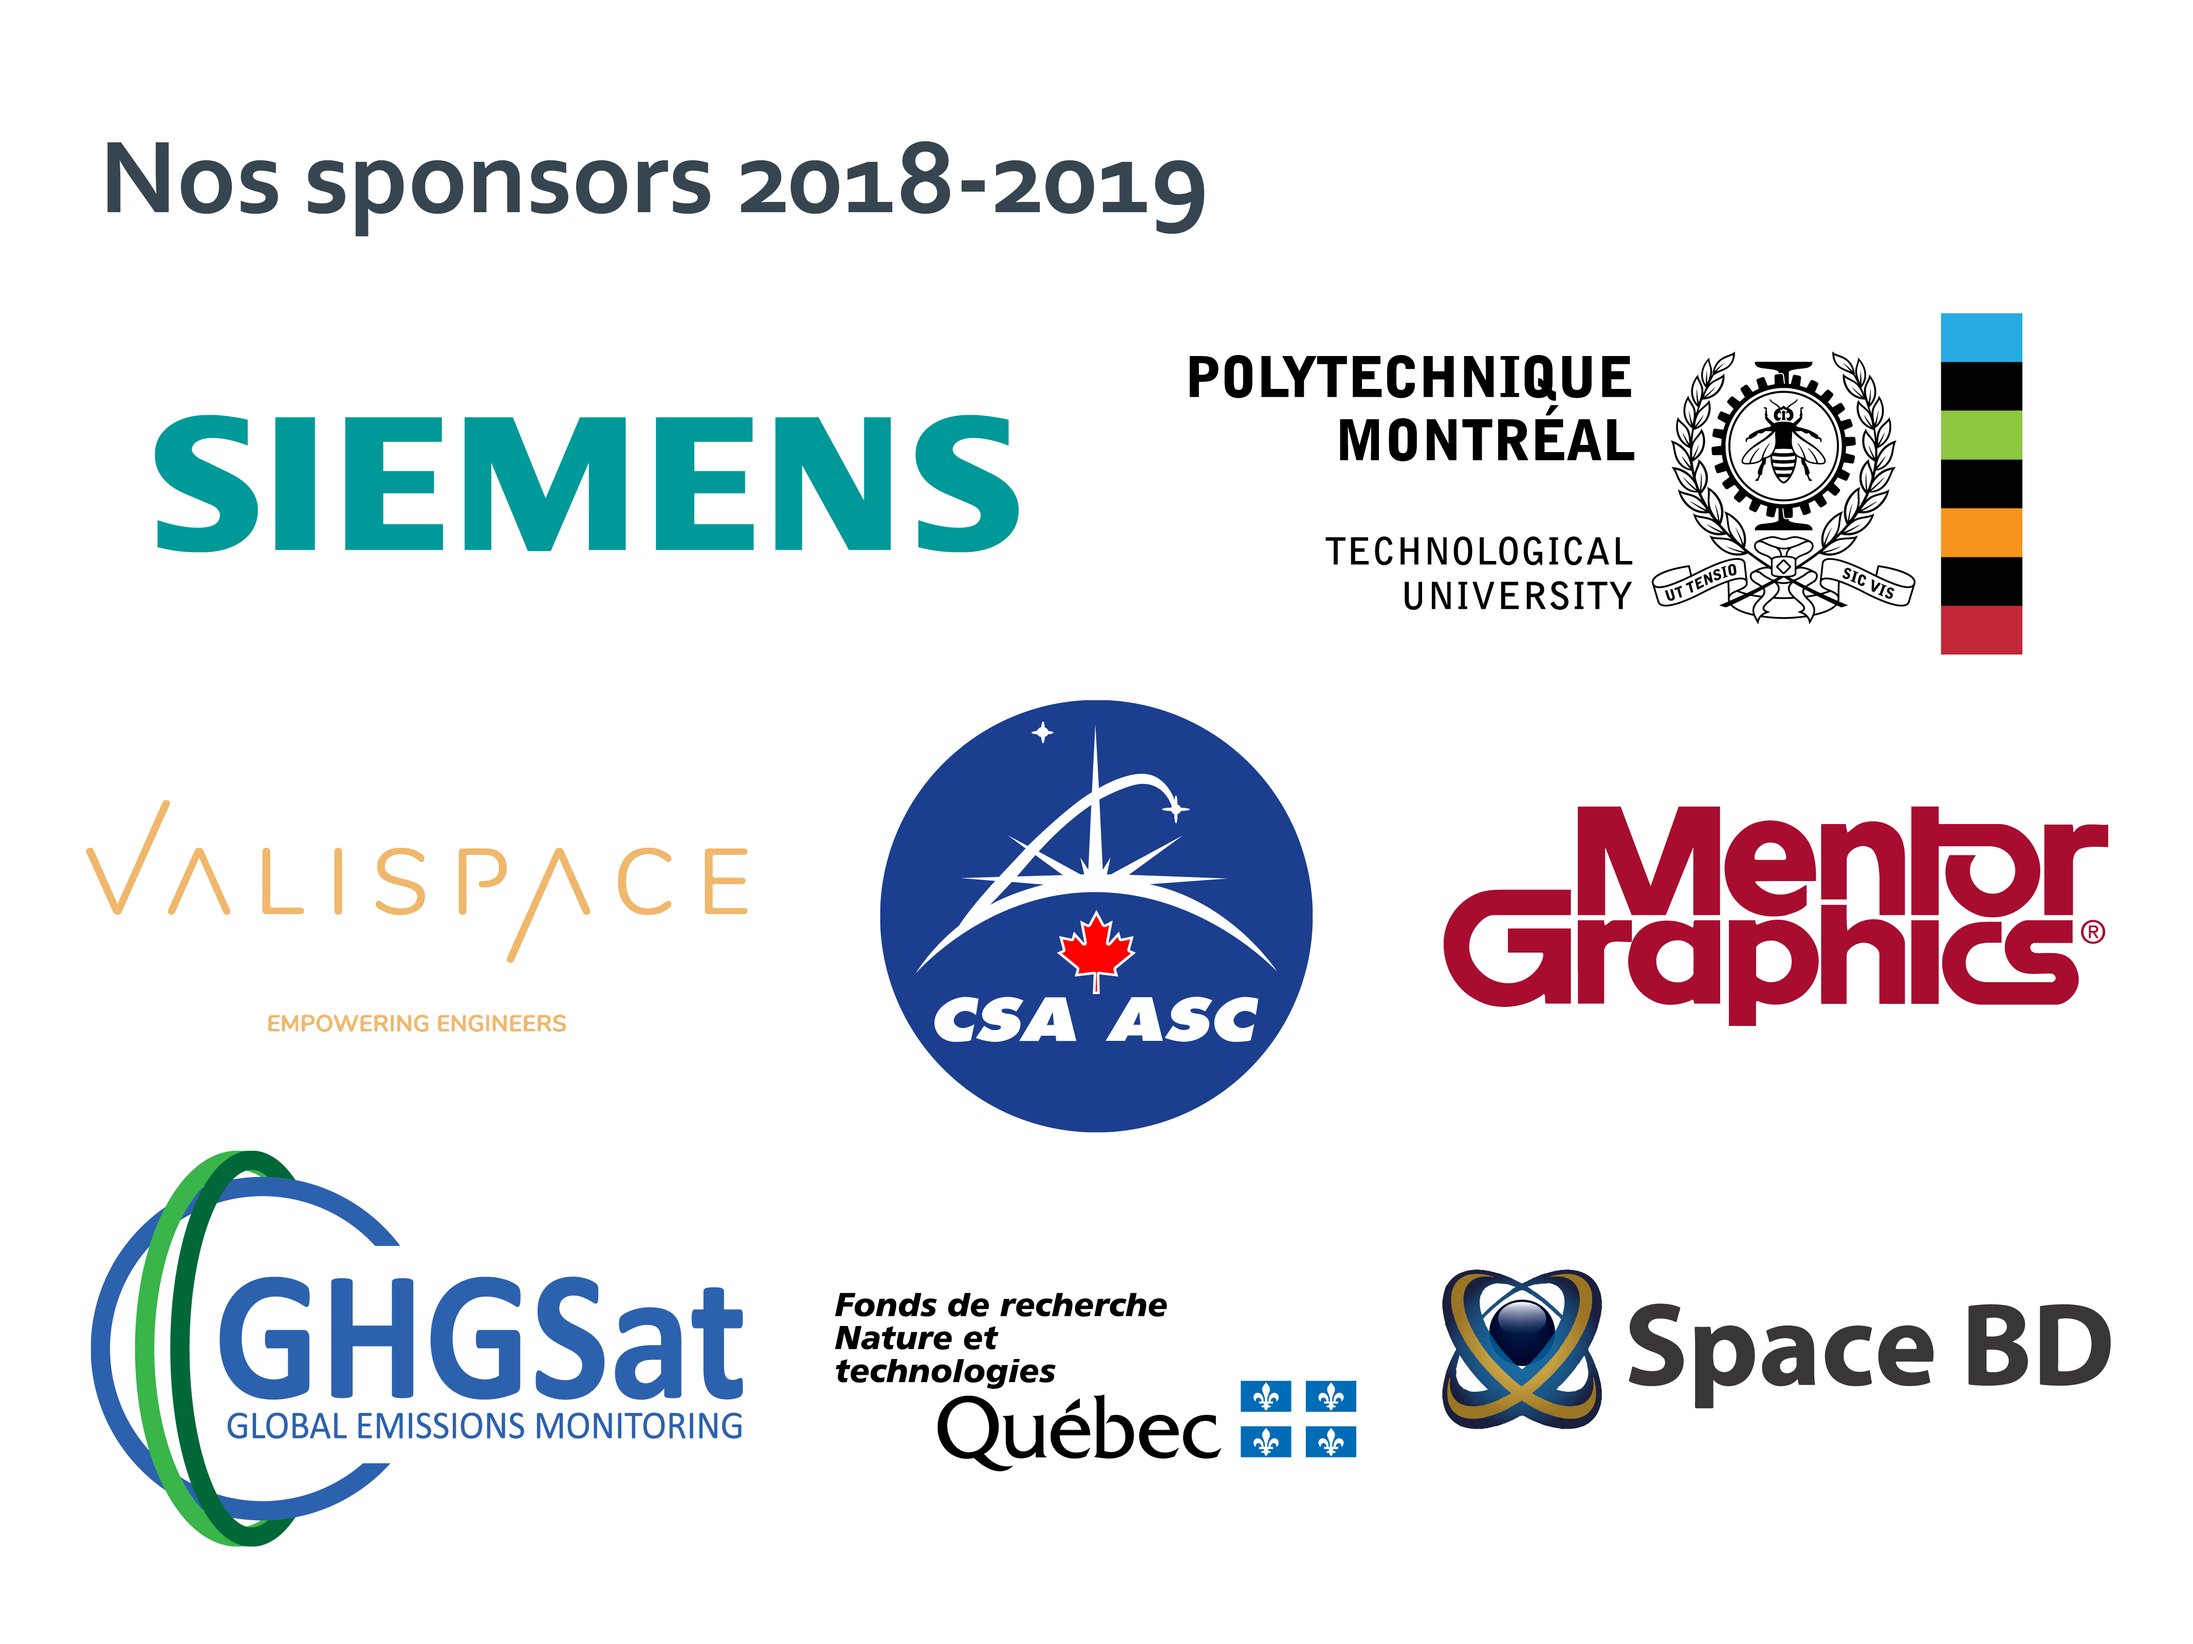
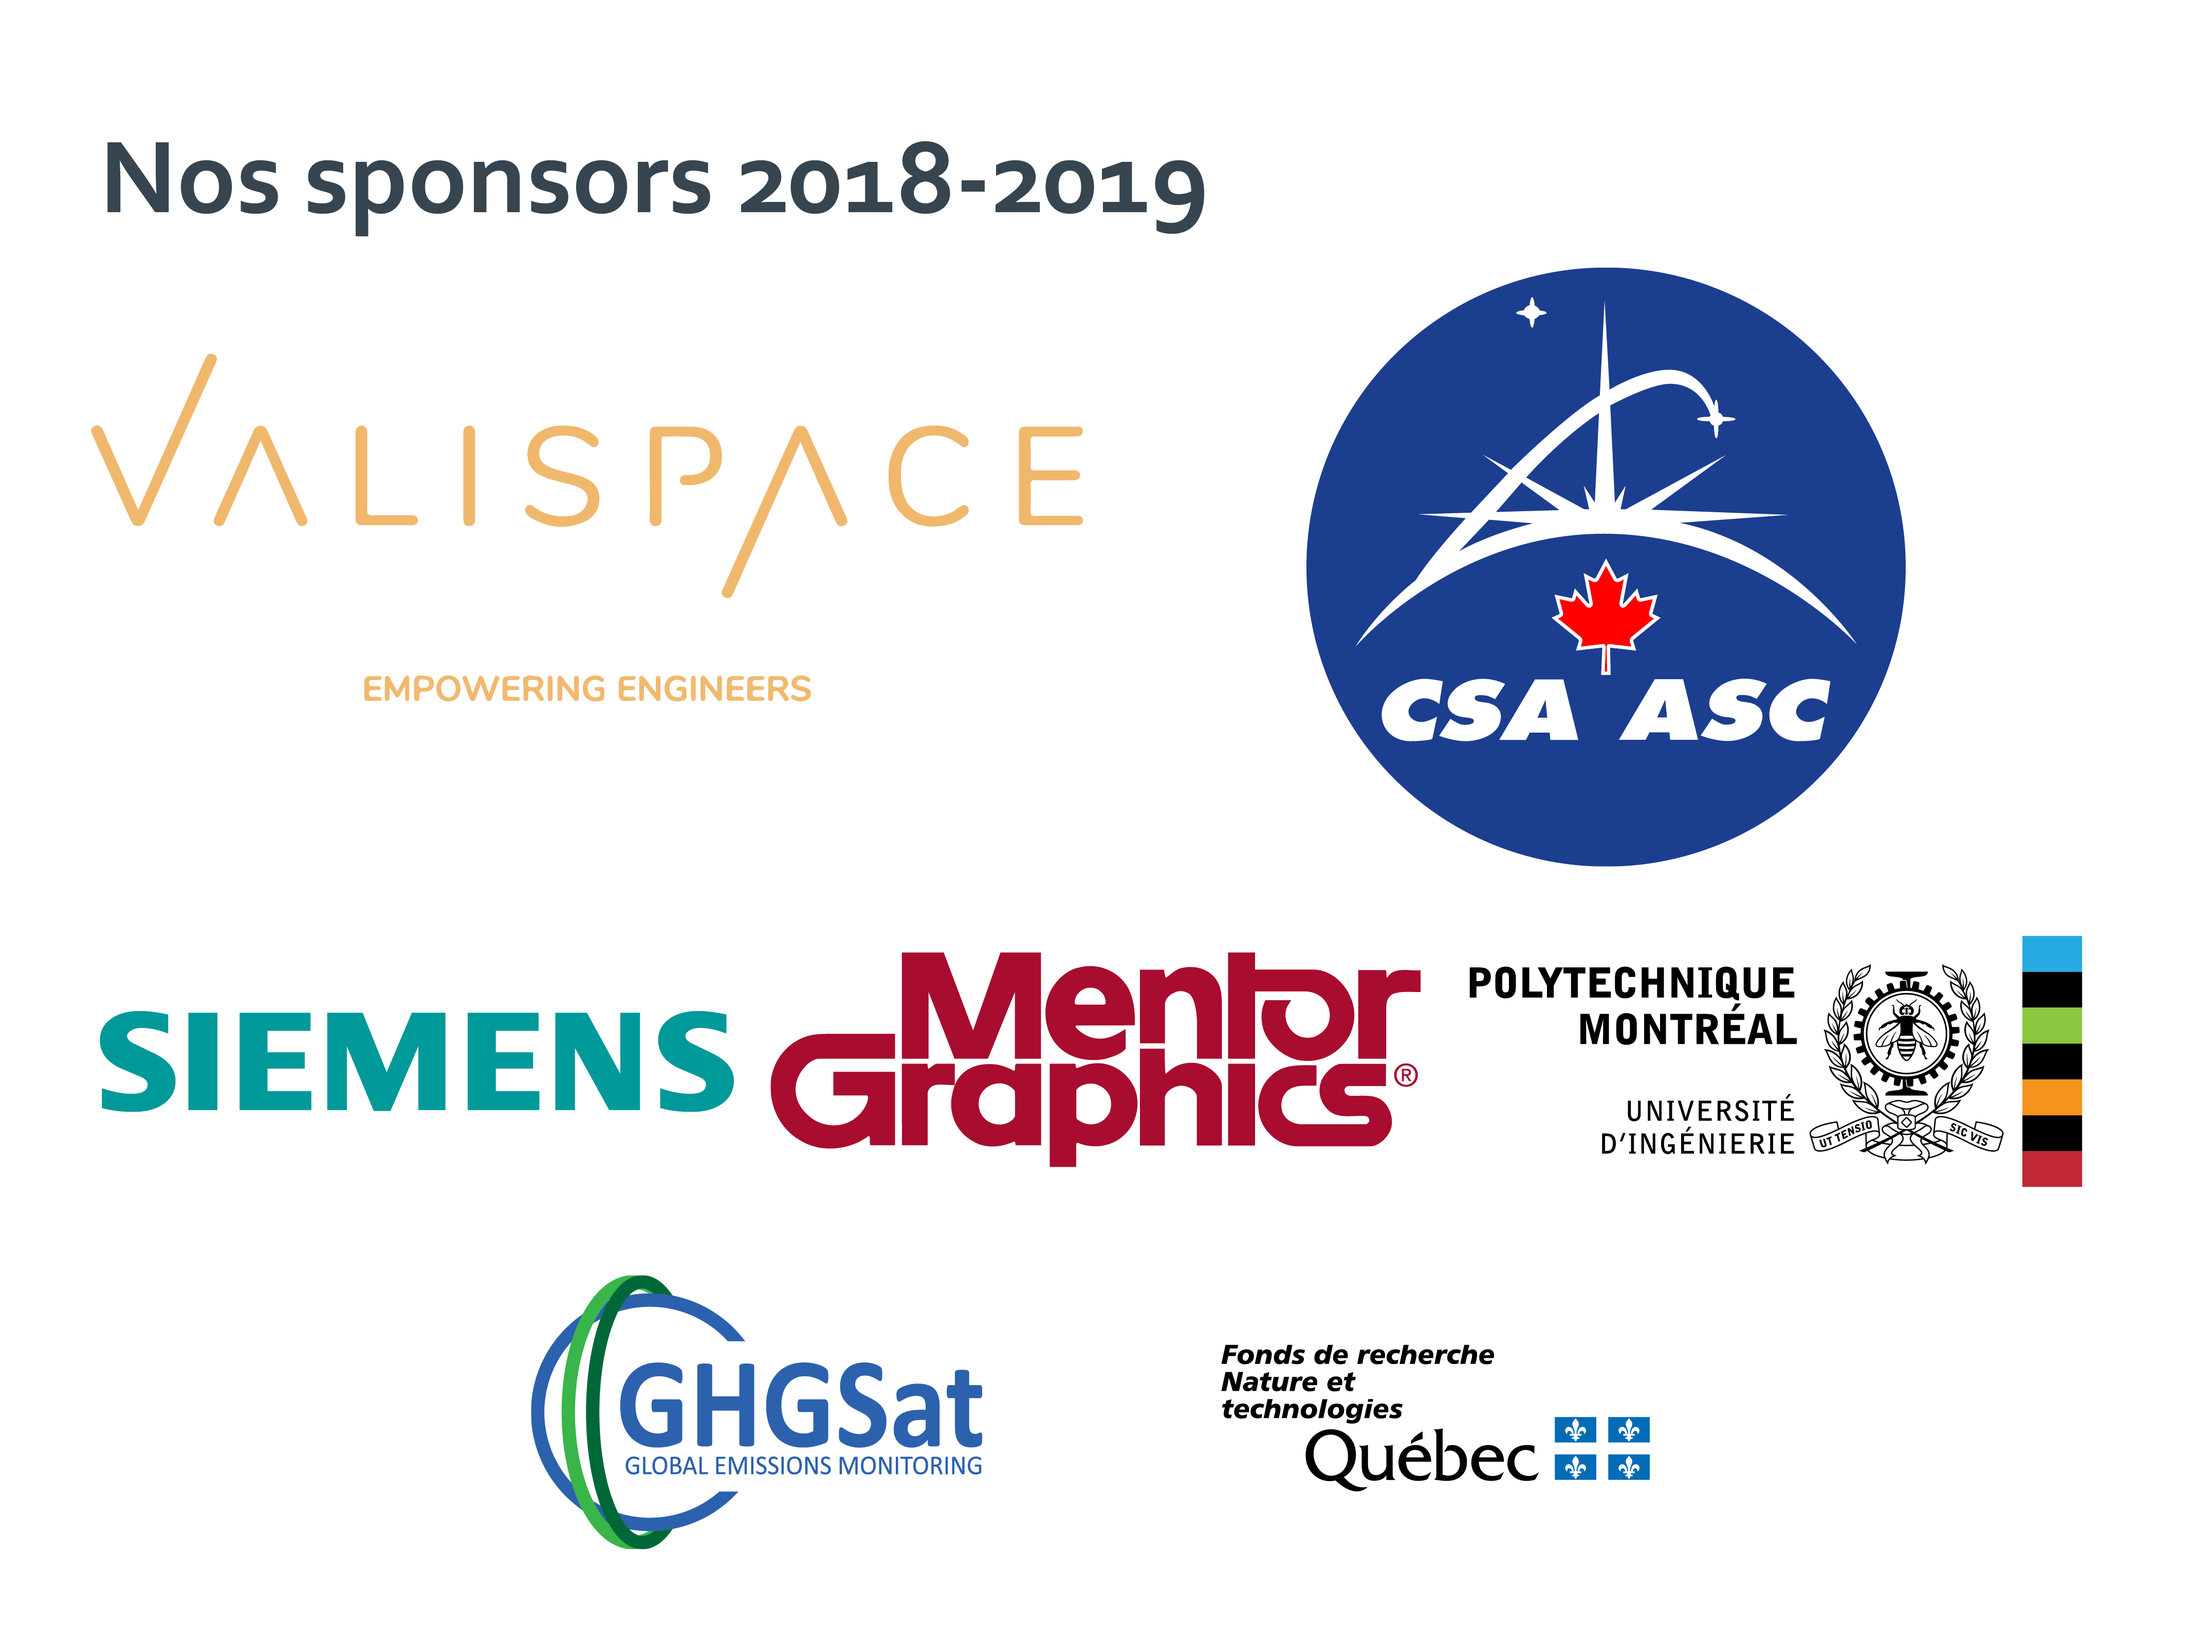
mise a jour du sponsor spread

diff --git a/fr.html b/fr.html
@@ -233,7 +233,7 @@
     <!--Sponsors section-->
     <div class="w3-container w3-light-grey" id="Sponsors">
     <div class="w3-container w3-center">
-        <img src="images/Sponsors-Spread2.png" style="width:100%; padding: 16px 16px">
+        <img src="images/Sponsors-Spread.png" style="width:100%; padding: 16px 16px">
     </div>
     </div>
 

diff --git a/index.html b/index.html
@@ -228,7 +228,7 @@
 <!--Sponsors section-->
 <div class="w3-container w3-light-grey" id="Sponsors">
 <div class="w3-container w3-center">
-    <img src="images/Sponsors-Spread2.png" style="width:100%; padding: 16px 16px">
+    <img src="images/Sponsors-Spread-EN.png" style="width:100%; padding: 16px 16px">
 </div>
 </div>
 
